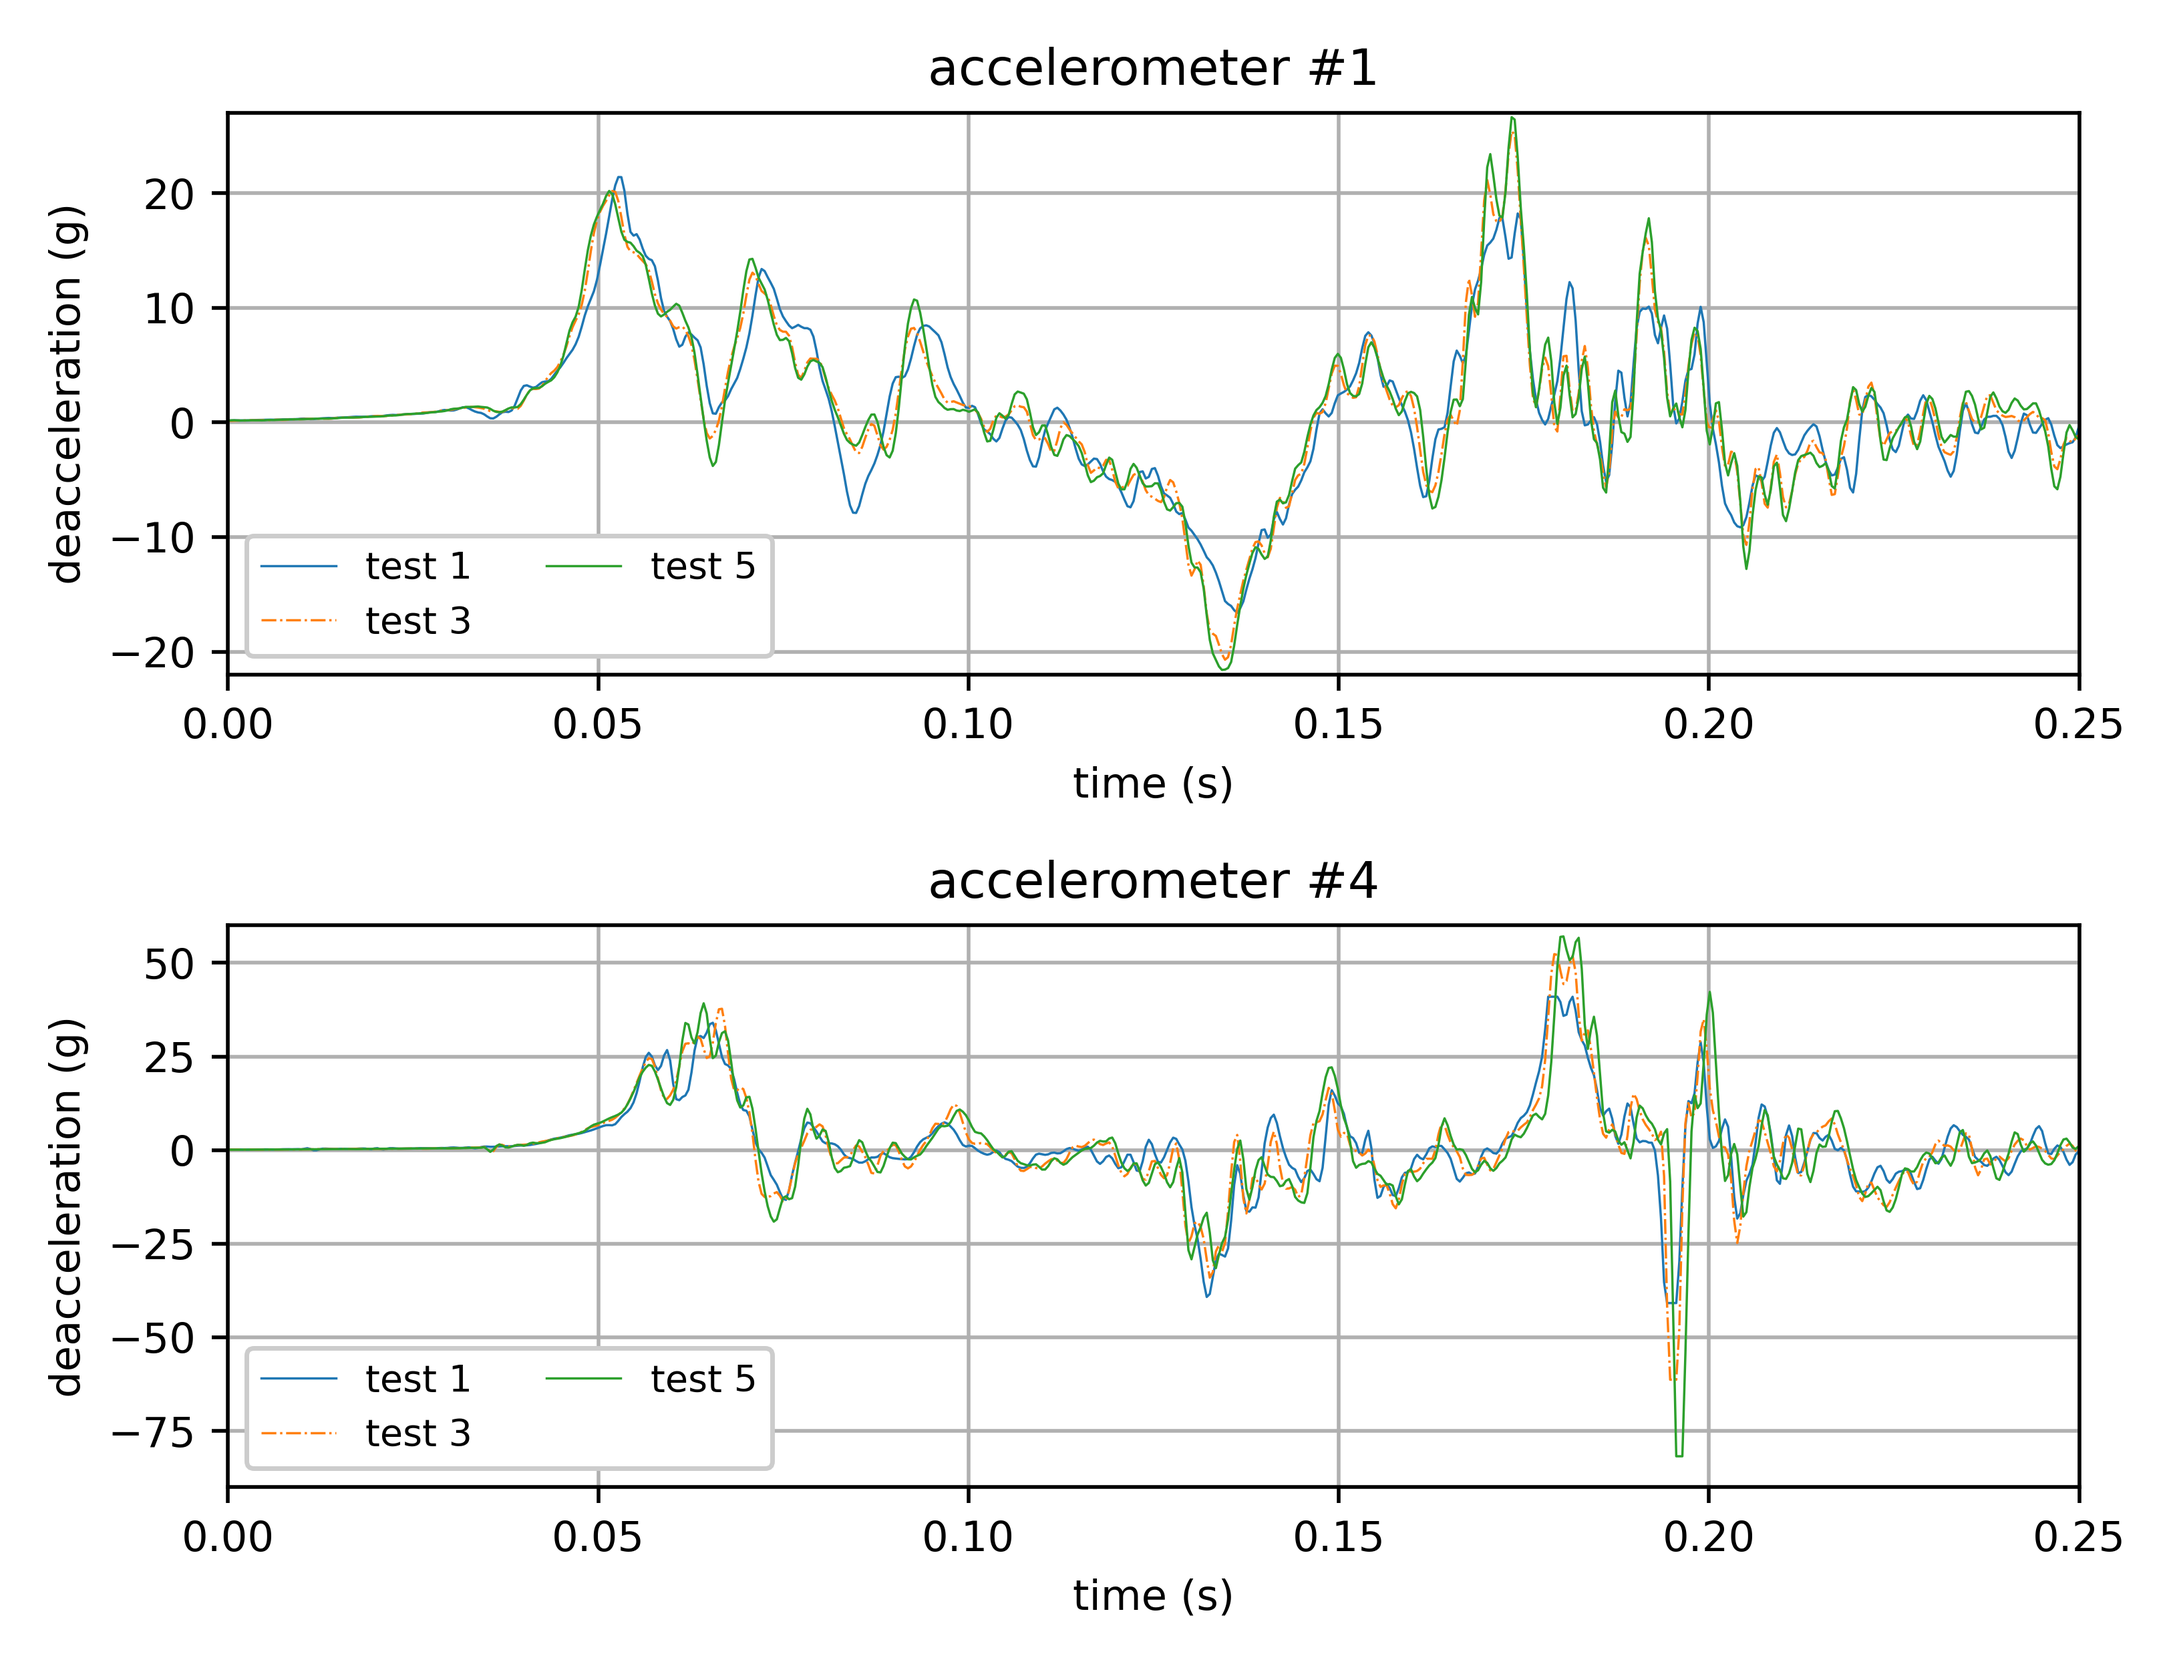
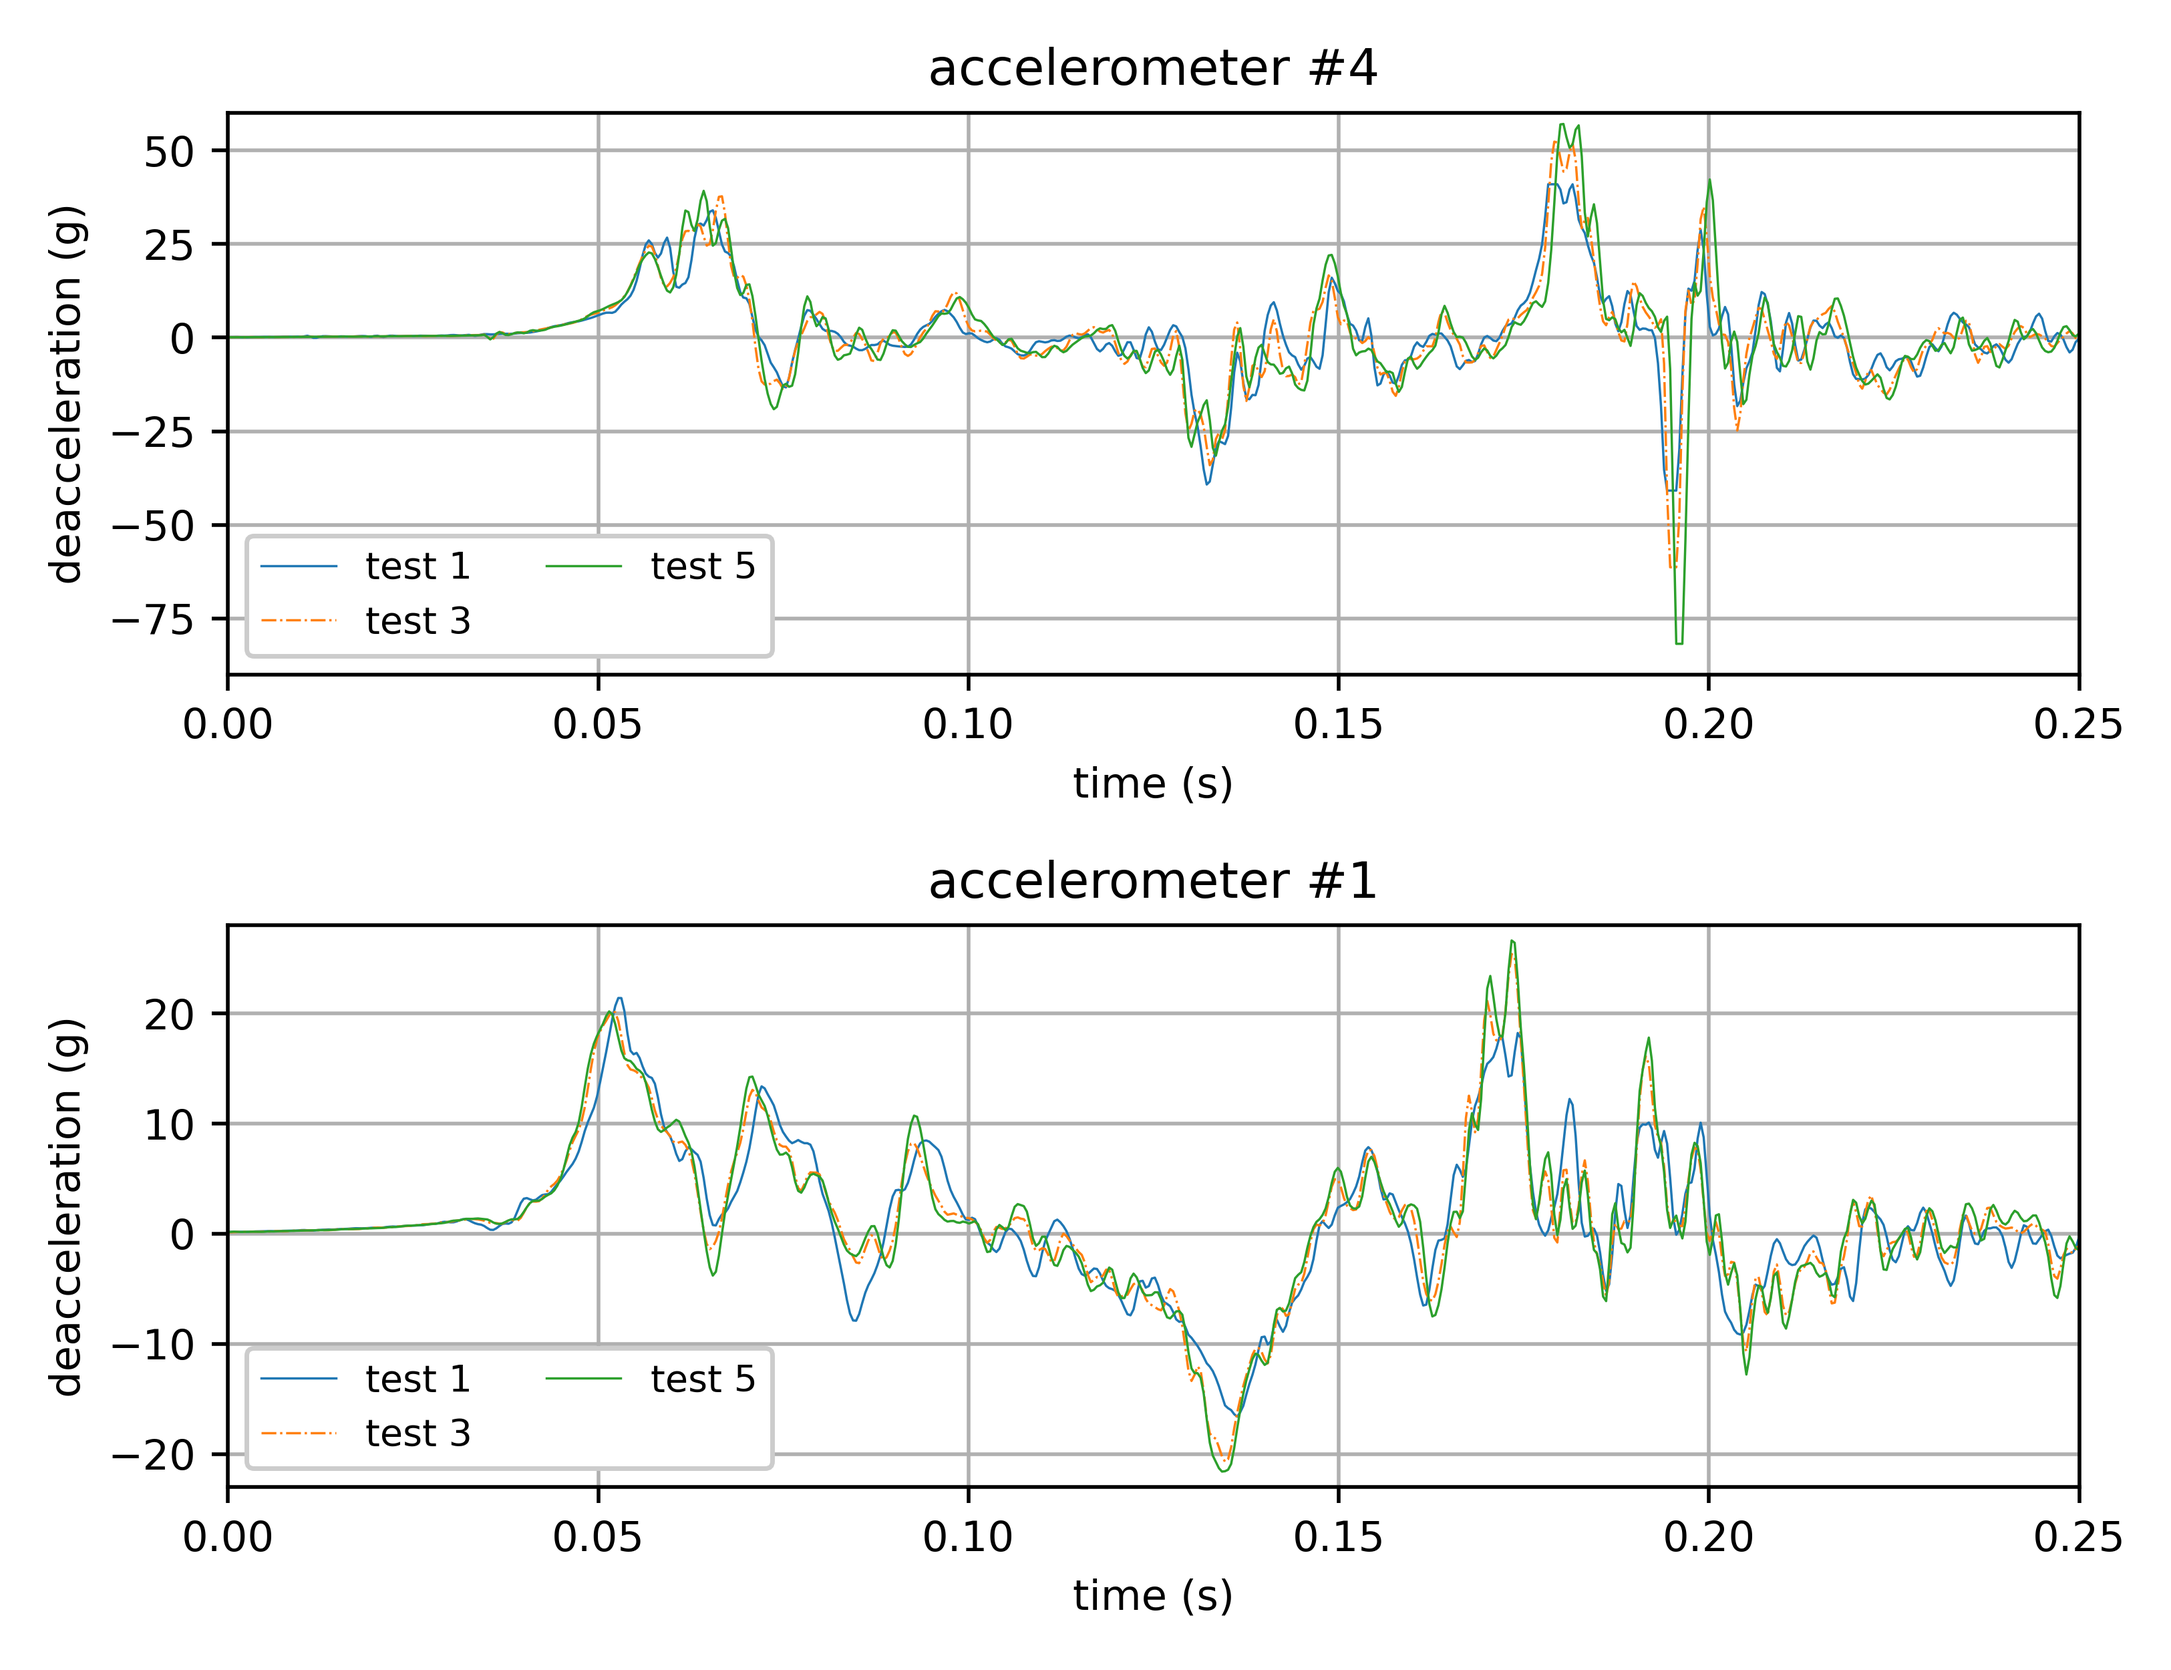
plot updates

diff --git a/images/process.py b/images/process.py
@@ -39,32 +39,6 @@ plt.close('all')
 # dd_4 = np.loadtxt('data/test4_fig2.csv',delimiter=',')
 # dd_5 = np.loadtxt('data/test5_fig2.csv',delimiter=',')
 
-D = np.loadtxt('../data/accel_1.csv',skiprows=2,delimiter=',')
-tt = D[:,0]-1.3
-dd_1 = D[:,1]
-dd_2 = D[:,2]
-dd_3 = D[:,3]
-dd_4 = D[:,4]
-dd_5 = D[:,5]
-
-plt.figure(figsize=(6.5,5))
-plt.subplot(2,1,1)
-plt.plot(tt,dd_1,label='test 1',lw='0.5')
-#plt.plot(tt,dd_2,'--',label='test 2',lw='0.5')
-plt.plot(tt,dd_3,'-.',label='test 3',lw='0.5')
-#plt.plot(tt,dd_4,':',label='test 4',lw='0.5')
-plt.plot(tt,dd_5,'-',label='test 5',lw='0.5')
-plt.xlim(0,0.25)
-plt.ylim(-22,27)
-plt.grid('on')
-plt.xlabel('time (s)')
-plt.ylabel('deacceleration (g)')
-plt.title('accelerometer #1')
-plt.legend(framealpha=1,fontsize=8,ncol=2,loc=3)
-plt.tight_layout()
-
-
-
 D = np.loadtxt('../data/accel_4.csv',skiprows=2,delimiter=',')
 tt = D[:,0]-1.3
 dd_1 = D[:,1]
@@ -73,7 +47,10 @@ dd_3 = D[:,3]
 dd_4 = D[:,4]
 dd_5 = D[:,5]
 
-plt.subplot(2,1,2)
+plt.figure(figsize=(6.5,5))
+
+
+plt.subplot(2,1,1)
 plt.plot(tt,dd_1,label='test 1',lw='0.5')
 #plt.plot(tt,dd_2,'--',label='test 2',lw='0.5')
 plt.plot(tt,dd_3,'-.',label='test 3',lw='0.5')
@@ -87,6 +64,36 @@ plt.ylabel('deacceleration (g)')
 plt.title('accelerometer #4')
 plt.legend(framealpha=1,fontsize=8,ncol=2,loc=3)
 plt.tight_layout()
+
+
+
+D = np.loadtxt('../data/accel_1.csv',skiprows=2,delimiter=',')
+tt = D[:,0]-1.3
+dd_1 = D[:,1]
+dd_2 = D[:,2]
+dd_3 = D[:,3]
+dd_4 = D[:,4]
+dd_5 = D[:,5]
+
+
+
+
+plt.subplot(2,1,2)
+plt.plot(tt,dd_1,label='test 1',lw='0.5')
+#plt.plot(tt,dd_2,'--',label='test 2',lw='0.5')
+plt.plot(tt,dd_3,'-.',label='test 3',lw='0.5')
+#plt.plot(tt,dd_4,':',label='test 4',lw='0.5')
+plt.plot(tt,dd_5,'-',label='test 5',lw='0.5')
+plt.xlim(0,0.25)
+plt.ylim(-23,28)
+plt.grid('on')
+plt.xlabel('time (s)')
+plt.ylabel('deacceleration (g)')
+plt.title('accelerometer #1')
+plt.legend(framealpha=1,fontsize=8,ncol=2,loc=3)
+plt.tight_layout()
+
+
 plt.savefig('candata.png',dpi=500)
 
 
